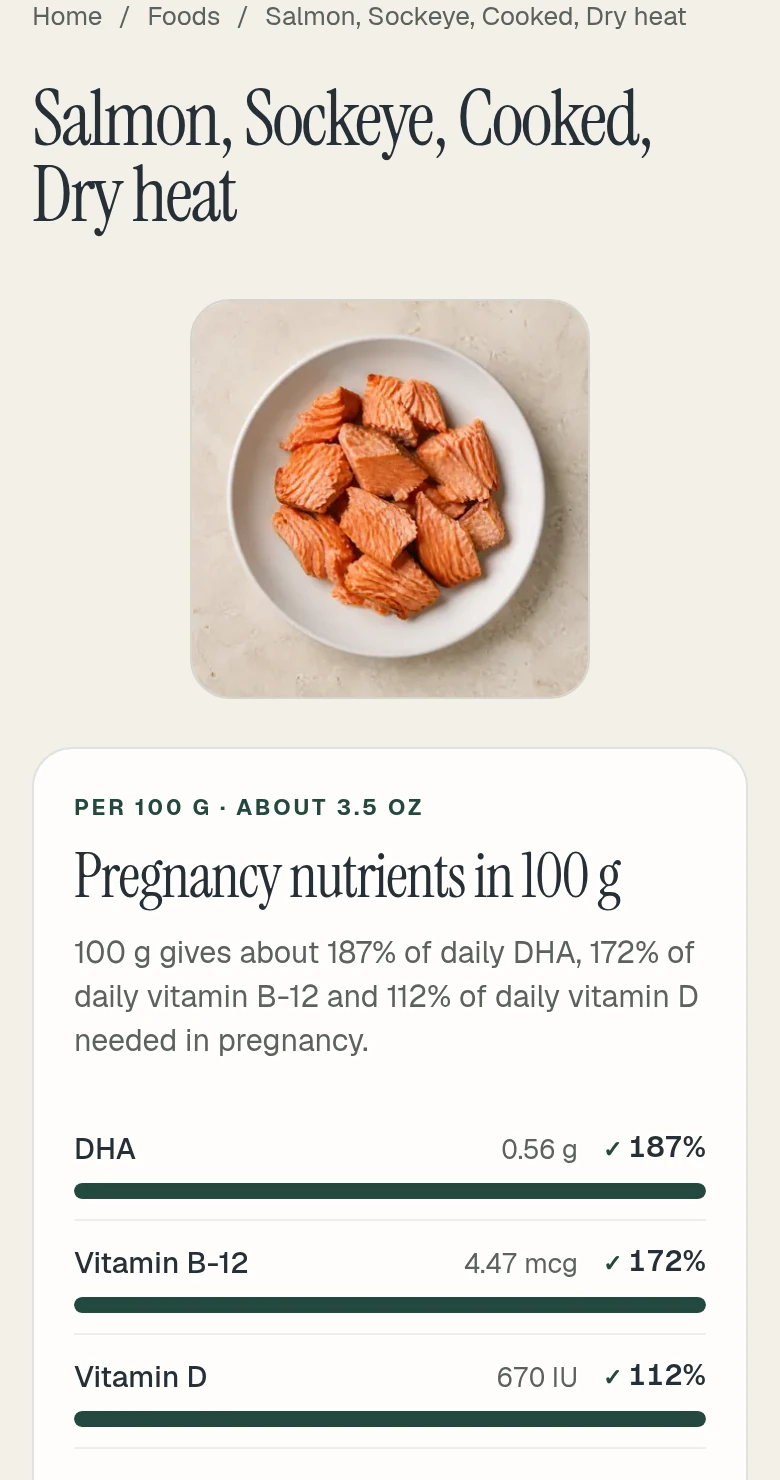
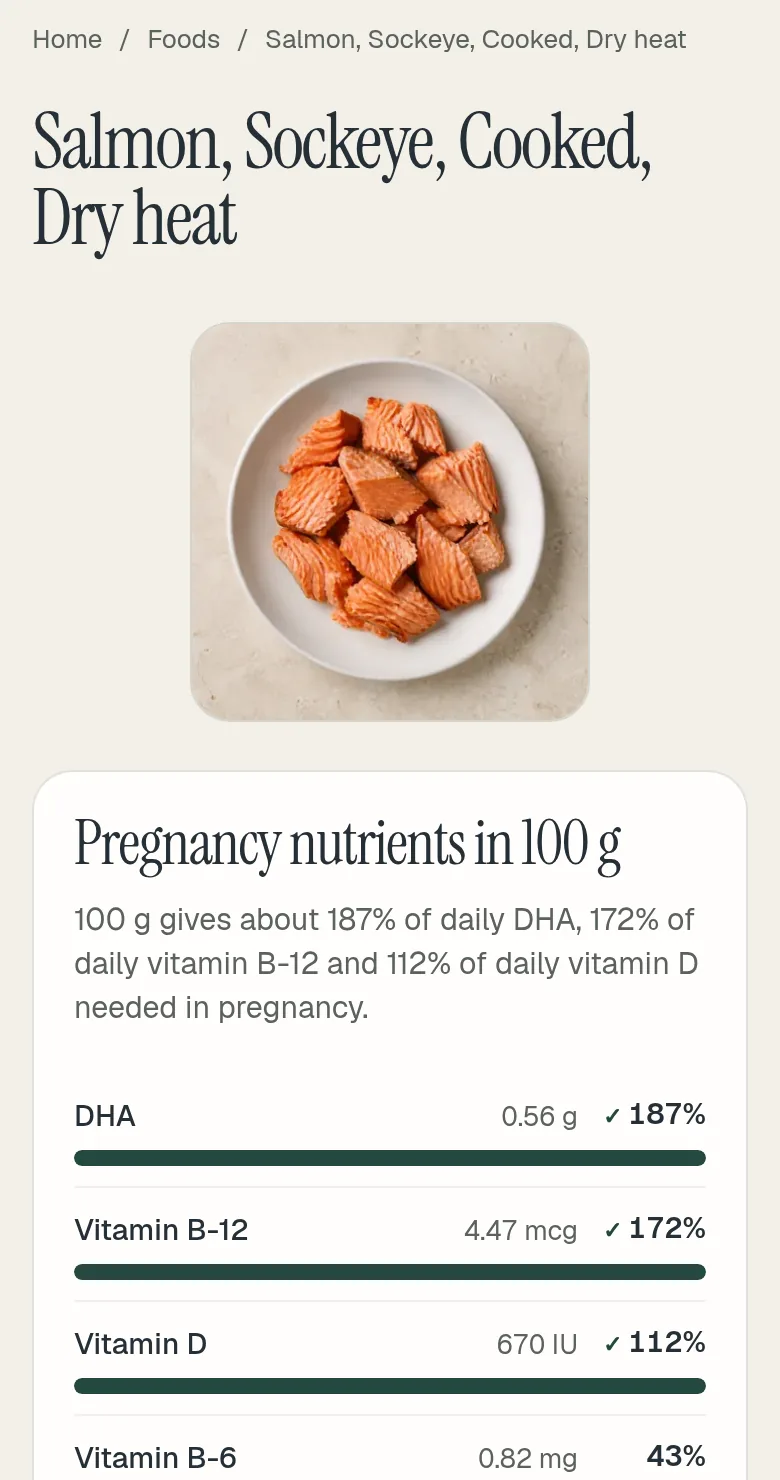
Remove remaining small caps across the site
Set every uppercase, letter-spaced label to normal case: the logo
tagline, the "Menu" pill, post bylines, data table headers, food
guidance and safety badges, portion badges, priority pills, and the
static weekly guide timeline labels. Tiny label sizes rise slightly to
stay legible. Retake the About page screenshots that still showed the
old caps, and bump stylesheet versions.

diff --git a/src/style/style.css b/src/style/style.css
@@ -149,11 +149,10 @@ p {
 .card-meta {
   margin: 0 0 12px;
   color: var(--accent-2);
-  font-size: 0.75rem;
+  font-size: 0.8rem;
   font-weight: 700;
   line-height: 1.2;
-  letter-spacing: 0.14em;
-  text-transform: uppercase;
+  letter-spacing: 0;
 }
 
 .note {
@@ -242,11 +241,10 @@ p {
 
 .brand-tagline {
   color: var(--muted);
-  font-size: 0.66rem;
+  font-size: 0.8rem;
   font-weight: 600;
   line-height: 1;
-  letter-spacing: 0.055em;
-  text-transform: uppercase;
+  letter-spacing: 0;
 }
 
 .nav-pill-menu {
@@ -257,10 +255,9 @@ p {
 }
 
 .nav-pill-menu-text {
-  font-size: 0.72rem;
+  font-size: 0.8rem;
   font-weight: 700;
-  letter-spacing: 0.12em;
-  text-transform: uppercase;
+  letter-spacing: 0;
 }
 
 .nav-pill-burger {
@@ -647,10 +644,9 @@ p {
 
 .post-meta {
   color: var(--accent-2);
-  font-size: 0.78rem;
+  font-size: 0.8rem;
   font-weight: 700;
-  letter-spacing: 0.12em;
-  text-transform: uppercase;
+  letter-spacing: 0;
 }
 
 .post-image {
@@ -738,9 +734,8 @@ p {
 .data-table thead th {
   color: var(--muted);
   background: var(--bg-2);
-  font-size: 0.75rem;
-  letter-spacing: 0.09em;
-  text-transform: uppercase;
+  font-size: 0.8rem;
+  letter-spacing: 0;
 }
 
 .data-table tbody tr:last-child td {

diff --git a/src/style/weekly-diet.css b/src/style/weekly-diet.css
@@ -65,8 +65,7 @@
 
 .weekly-timeline-kicker {
   margin: 0;
-  text-transform: uppercase;
-  letter-spacing: 0.14em;
+  letter-spacing: 0;
   font-size: 11px;
   font-weight: 900;
   color: rgba(20, 90, 90, 0.70);
@@ -74,8 +73,7 @@
 
 .weekly-timeline-current {
   margin: 0;
-  text-transform: uppercase;
-  letter-spacing: 0.14em;
+  letter-spacing: 0;
   font-size: 11px;
   font-weight: 900;
   color: rgba(20, 90, 90, 0.70);
@@ -168,8 +166,7 @@
 .weekly-timeline-label {
   font-size: 11px;
   font-weight: 500;
-  text-transform: uppercase;
-  letter-spacing: 0.14em;
+  letter-spacing: 0;
   color: rgba(31, 26, 23, 0.9);
   line-height: 1.2;
   white-space: nowrap;
@@ -179,8 +176,7 @@
   max-width: 100%;
   font-size: 10px;
   font-weight: 650;
-  letter-spacing: 0.12em;
-  text-transform: uppercase;
+  letter-spacing: 0;
   color: rgba(31, 26, 23, 0.58);
   white-space: nowrap;
   overflow: hidden;
@@ -257,8 +253,7 @@
 .control-label {
   font-size: 0.85rem;
   font-weight: 700;
-  text-transform: uppercase;
-  letter-spacing: 0.08em;
+  letter-spacing: 0;
   color: var(--weekly-accent-2);
 }
 

diff --git a/src/style/food.css b/src/style/food.css
@@ -147,10 +147,9 @@
   display: inline-block;
   padding: 4px 11px;
   border-radius: 999px;
-  font-size: 0.74rem;
+  font-size: 0.8rem;
   font-weight: 750;
-  letter-spacing: 0.04em;
-  text-transform: uppercase;
+  letter-spacing: 0;
 }
 
 .food-guidance-badge.is-recommended {
@@ -227,10 +226,9 @@
   border-radius: 999px;
   color: #6d470d;
   background: #f4e1bd;
-  font-size: 0.72rem;
+  font-size: 0.8rem;
   font-weight: 800;
-  letter-spacing: 0.06em;
-  text-transform: uppercase;
+  letter-spacing: 0;
 }
 
 .food-safety-note.is-avoid .food-safety-badge {

diff --git a/src/food.html b/src/food.html
@@ -7,7 +7,7 @@ eleventyComputed:
   description: "Search and browse pregnancy nutrition facts for {{ foodpages.count }} foods, with nutrient coverage per 100 grams and food safety notes."
 pageStyles:
   - /style/weekly-diet.css
-  - /style/food.css?v=20260925-search-error
+  - /style/food.css?v=20261015-no-caps
 pageScripts:
   - /js/food-directory.js?v=20260925-2
 ---

diff --git a/src/style/article.css b/src/style/article.css
@@ -44,11 +44,10 @@
   gap: 5px 11px;
   margin: 0;
   color: #4c6557;
-  font-size: .76rem;
+  font-size: 0.8rem;
   font-weight: 650;
   line-height: 1.55;
-  letter-spacing: .06em;
-  text-transform: uppercase;
+  letter-spacing: 0;
 }
 .magazine-post .post-meta a { text-decoration: underline; text-underline-offset: 3px; }
 .magazine-post .post-evidence {

diff --git a/src/blog.html b/src/blog.html
@@ -9,7 +9,7 @@ socialImageWidth: 1200
 socialImageHeight: 630
 socialImageAlt: Painted still life of greens, lentils, citrus, eggs, and vegetables
 pageStyles:
-  - /style/blog.css?v=20261015-no-eyebrows
+  - /style/blog.css?v=20261015-no-caps
 permalink: /blog/index.html
 ---
 

diff --git a/src/style/overhaul.css b/src/style/overhaul.css
@@ -522,10 +522,9 @@
   border-radius: 0;
   color: #6a726f;
   background: transparent;
-  font-size: 0.67rem;
+  font-size: 0.8rem;
   font-weight: 750;
-  letter-spacing: 0.08em;
-  text-transform: uppercase;
+  letter-spacing: 0;
 }
 
 .page-weekly .priority-pill::before {

diff --git a/src/weekly-diet.html b/src/weekly-diet.html
@@ -6,7 +6,7 @@ permalink: /weekly-diet/index.html
 bodyClass: page-weekly
 vizStyles: true
 pageStyles:
-  - /style/weekly.css?v=20261015-no-eyebrows
+  - /style/weekly.css?v=20261015-no-caps
 pageScripts:
   - /js/viz.js?v=20261007
   - /js/weekly-diet.js?v=20261007

diff --git a/src/about.html b/src/about.html
@@ -4,7 +4,7 @@ description: Learn how PregNut compares foods per 100 grams, uses pregnancy nutr
 layout: base.njk
 permalink: /about/index.html
 pageStyles:
-  - /style/about.css
+  - /style/about.css?v=20261015-no-caps
 ---
 
 <section class="hero slim">

diff --git a/src/style/home.css b/src/style/home.css
@@ -176,10 +176,9 @@
 
 .home-float-label {
   color: var(--accent);
-  font-size: 0.66rem;
+  font-size: 0.8rem;
   font-weight: 700;
-  letter-spacing: 0.12em;
-  text-transform: uppercase;
+  letter-spacing: 0;
 }
 
 .home-float-card strong {

diff --git a/src/index.html b/src/index.html
@@ -5,7 +5,7 @@ layout: base.njk
 schemaType: WebSite
 bodyClass: page-home
 pageStyles:
-  - /style/home.css?v=20261015-no-eyebrows
+  - /style/home.css?v=20261015-no-caps
 pageScripts:
   - /js/home.js?v=20261014-transparent-art
 ---

diff --git a/src/style/about.css b/src/style/about.css
@@ -85,8 +85,7 @@
   backdrop-filter: blur(12px);
   font-size: 12px;
   font-weight: 800;
-  letter-spacing: 0.12em;
-  text-transform: uppercase;
+  letter-spacing: 0;
   color: rgba(20, 90, 90, 0.9);
 }
 
